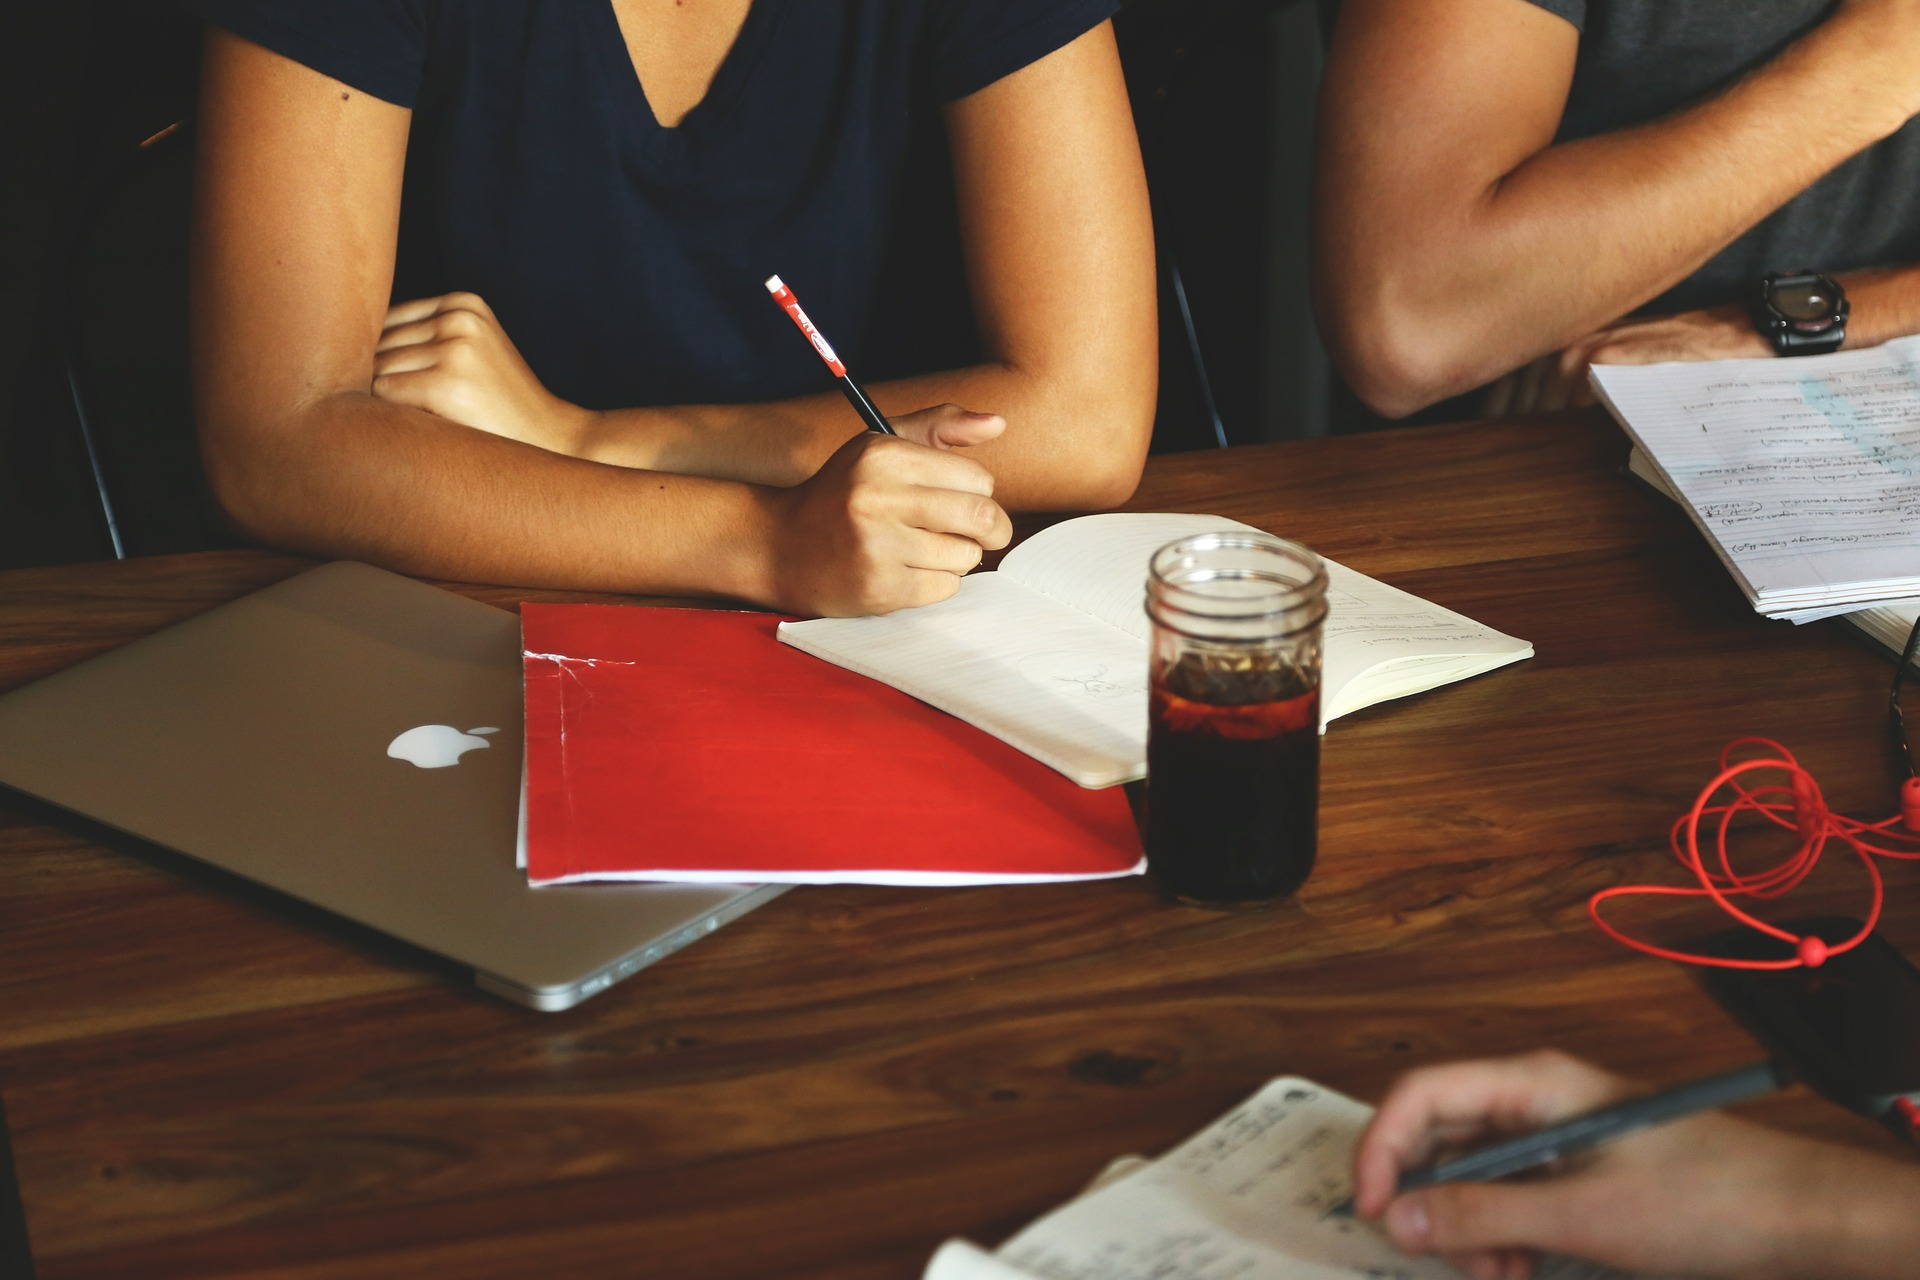
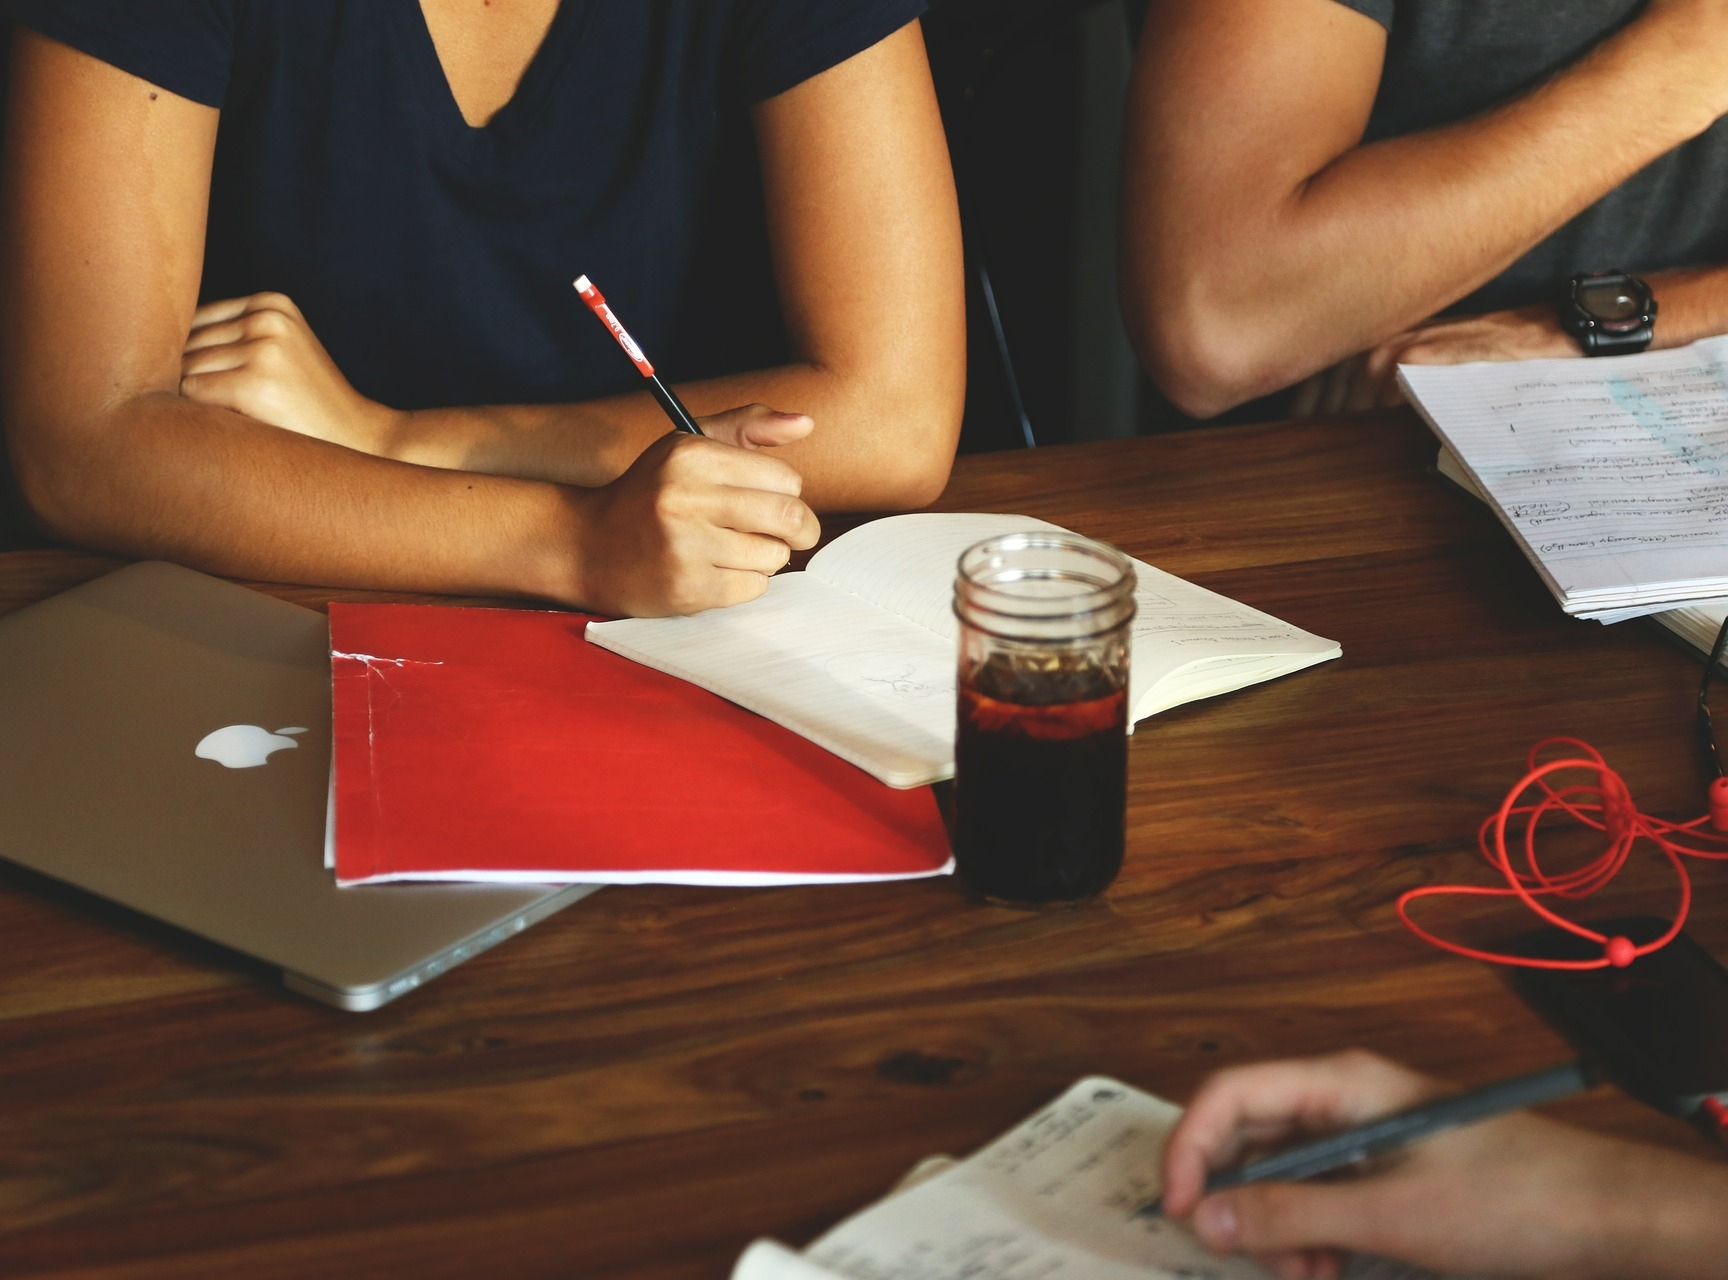
Add welcome image to final modal slide.

diff --git a/app/views/modals/wizardModal.html b/app/views/modals/wizardModal.html
@@ -1,6 +1,4 @@
-<img class="welcome-image" ng-if="currentStep.number == 3" ng-src="/images/welcome_square.jpg" alt="Welcome">
-
-<div class="modal-header tags-modal">
+<div ng-hide="finalSlide" class="modal-header tags-modal">
   <div ng-switch="currentStep.number">
     <div ng-switch-when="1">
       <h3>Add tags to your profile</h3>
@@ -16,7 +14,7 @@
   </div> <!-- ng-switch -->
 </div> <!-- modal-header -->
 
-<div class="modal-body tags-modal">
+<div ng-class="{expand: finalSlide}" class="modal-body tags-modal">
   <form role="form">
     <div class="row">
       <div class="col-md-12">
@@ -40,7 +38,8 @@
   </form>
 
 </div>
-<div class="modal-footer">
+
+<div ng-hide="finalSlide" class="modal-footer">
   <div ng-switch="currentStep.number">
     <div ng-switch-when="1">
       <button class="btn btn-primary" ng-click="addTags(); nextStep()">Next Step</button>

diff --git a/app/styles/main.css b/app/styles/main.css
@@ -1,4 +1,11 @@
 
+.expand {
+	width: 100%;
+	height: 100% !important;
+	background-image:	url(/images/welcome_cropped.jpg);
+	background-repeat:	no-repeat;
+    background-size:	cover;
+}
 
 .modal-body p small {
 	color: #777;
@@ -110,7 +117,8 @@ display: block;
 }
 
 .tags-list li {
-	margin-top: 5px;
+	margin-left: auto;
+	margin-right: auto;
 }
 
 .tags-list li span {
@@ -133,17 +141,15 @@ display: block;
 
 /*Welcome Modal*/
 
-
-.welcome-image {
-	z-index: -1;
-	display: block;
- 	width: auto;
-  	max-height: 100%
+.welcome-modal {
+	text-align: center;
 }
 
 .welcome-modal h1 {
 	color: white;
-	position: absolute;
-	left: 10px;
-	top: 10px;
+	margin-top: 50px;
+}
+
+.welcome-modal img {
+	margin-top: 30px;
 }

diff --git a/app/scripts/services/modal.service.js b/app/scripts/services/modal.service.js
@@ -17,7 +17,8 @@ var myObject = {
 		var signUpModalInstance = $uibModal.open({
 			templateUrl: "views/modals/sign-up.modal.html",
 			controller: "SignUpModalCtrl", 
-      animation: false, 		  			
+      animation: false,
+      keyboard: false, 		  			
 			resolve: {
           data: function() {
             return data === null ? {} : data;
@@ -31,7 +32,8 @@ var myObject = {
       templateUrl: 'views/modals/wizardModal.html',
       controller: 'TagsModalCtrl',
       backdrop: 'static',
-      animation: false, 
+      animation: false,
+      keyboard: false,  
       resolve: {
         data: function() {
           return data === null ? {} : data;

diff --git a/app/index.html b/app/index.html
@@ -25,9 +25,12 @@
     <script src="bower_components/angular-route/angular-route.js"></script>
     <script src="bower_components/angular-sanitize/angular-sanitize.js"></script>
     <script src="bower_components/angular-touch/angular-touch.js"></script>
-    <script src="bower_components/angular-bootstrap/ui-bootstrap-tpls.min.js"></script>
     <!-- endbower -->
     <!-- endbuild -->
+
+    <!-- Angular Bootstrap -->
+    <script src="bower_components/angular-bootstrap/ui-bootstrap-tpls.js"></script>    
+
 
     <!-- Firebase -->
     <script src="https://www.gstatic.com/firebasejs/3.3.0/firebase.js"></script>

diff --git a/app/scripts/controllers/tags-modal.js b/app/scripts/controllers/tags-modal.js
@@ -12,6 +12,8 @@ angular.module('sharemateWebappApp')
     $scope.data = data;
     $scope.myObject = {text: ''}; // Object initiated to link to child scopes of modal partials.
     $scope.boolean = true;
+    $scope.finalSlide = false;
+
 
     $scope.steps = [
       { number: 1, name: 'First Step' },
@@ -64,6 +66,11 @@ angular.module('sharemateWebappApp')
 
     $scope.sendConfirmationEmail = function() {
       // Add method.
+    }
+
+    $scope.finalSlideNow = function() {
+      $scope.finalSlide = true;
+      console.log("finalSlide activated.")
     }
 
       

diff --git a/app/views/modals/wizardModalStep2.html b/app/views/modals/wizardModalStep2.html
@@ -4,7 +4,7 @@
 	  <div class="input-group">
 	    <input type="text" class="form-control" placeholder="e.g. Physics" value="{{user.email}}">
 	    <span class="input-group-btn">
-	      <button class="btn btn-primary" type="submit" ng-click="sendConfimationEmail(); nextStep()">Send</button>
+	      <button class="btn btn-primary" type="submit" ng-click="sendConfimationEmail(); nextStep(); finalSlideNow()">Send</button>
 	    </span>
 	  </div>
 	</form>

diff --git a/app/scripts/controllers/home.js b/app/scripts/controllers/home.js
@@ -17,7 +17,11 @@ angular.module('sharemateWebappApp')
 
   	$scope.openTagsModal = function(data) {
         Modal.openTagsModal(data);
-      };
+    };
+
+	$scope.openWelcomeModal = function(data) {
+        Modal.openWelcomeModal(data);
+    };
 
   });
 

diff --git a/app/views/modals/wizardModalStep3.html b/app/views/modals/wizardModalStep3.html
@@ -1,1 +1,3 @@
-<h1>You're Ready!</h1>
+<h1>You're ready!</h1>
+
+<img ng-src="images/done.svg">

diff --git a/app/views/modals/tags.modal.html b/app/views/modals/tags.modal.html
@@ -1,5 +1,4 @@
 
-
 <div class="modal-body">
 
 	<p>Hello World!</p>
